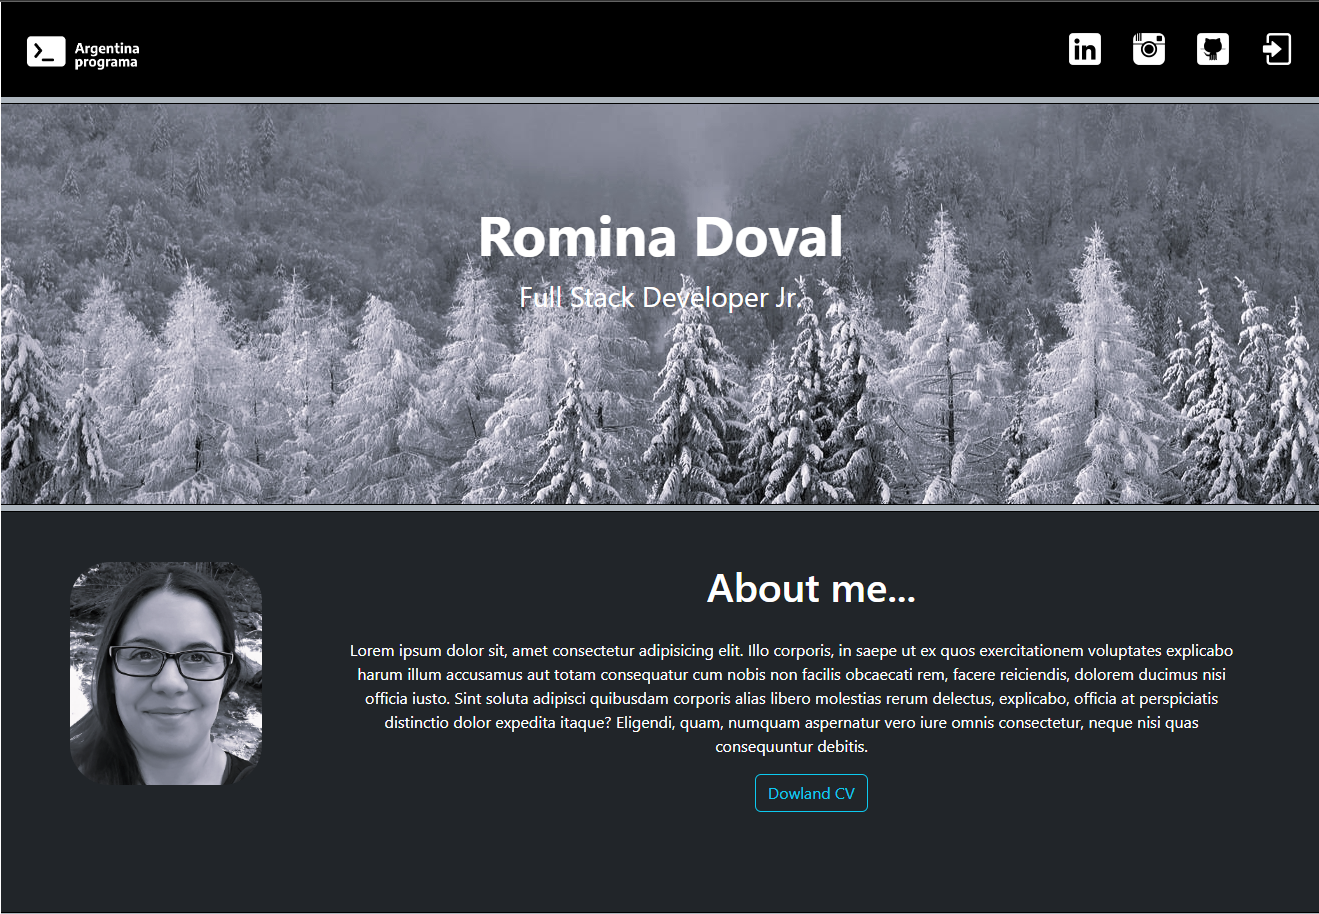
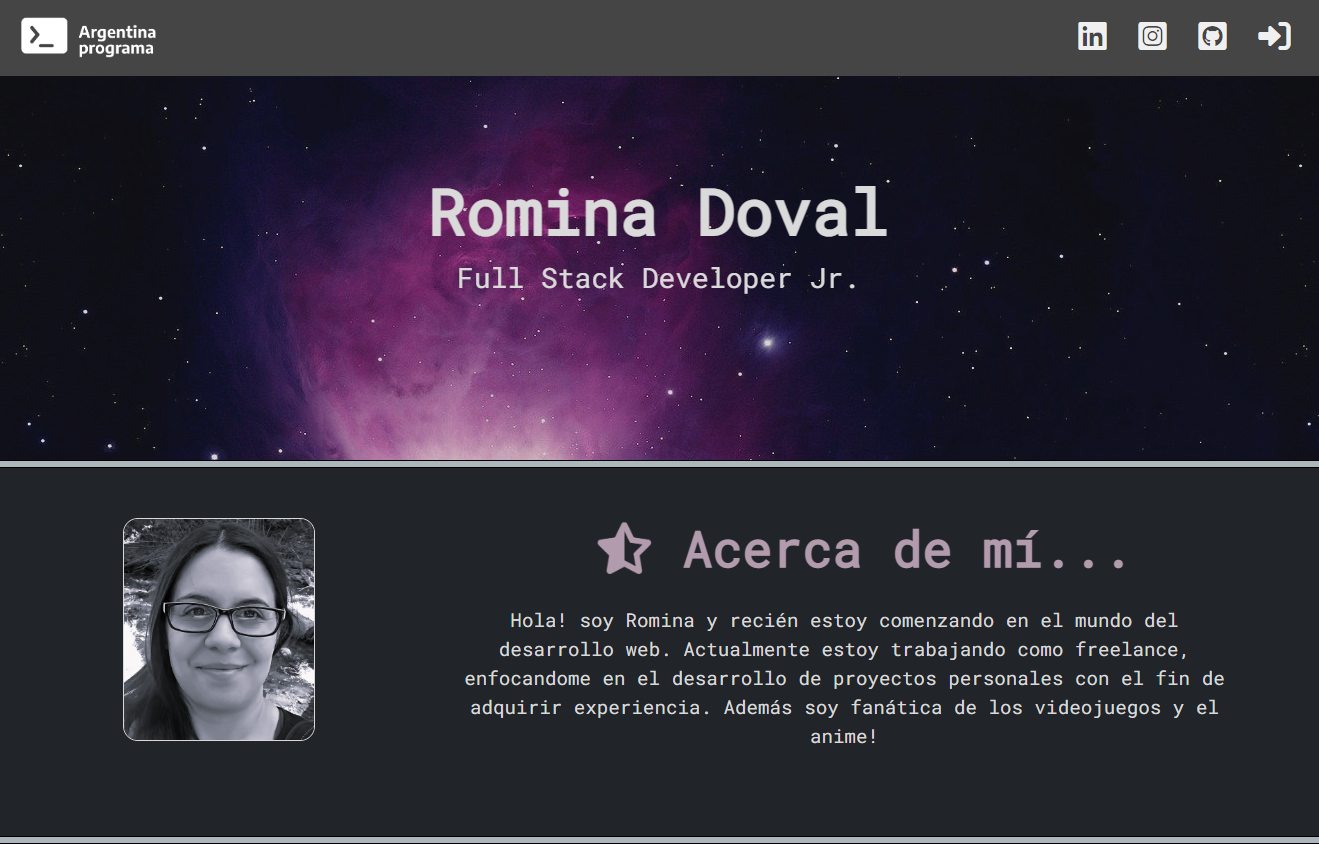
cambios, mejoras, falta proyectos

diff --git a/FrontEnd/src/app/components/skills/skills.component.html b/FrontEnd/src/app/components/skills/skills.component.html
@@ -15,8 +15,8 @@
                 <span class="fs-5"><img src="../../../assets/HTML20.png"> HTML</span>
             </div>
             <div class="progress mb-3" style="height: 1.5rem;">
-                <div class="progress-bar rojo" role="progressbar" style="width: 50%;" aria-valuemin="0"
-                    aria-valuenow="50" aria-valuemax="100">Intermedio</div>
+                <div class="progress-bar rojo" role="progressbar" style="width: 70%;" aria-valuemin="0"
+                    aria-valuenow="70" aria-valuemax="100">Intermedio</div>
             </div>
         </div>
 
@@ -26,7 +26,7 @@
                 <span class="fs-5"><img src="../../../assets/CSS20.png"> CSS</span>
             </div>
             <div class="progress mb-3" style="height: 1.5rem;">
-                <div class="progress-bar azul" role="progressbar" style="width: 50%;" aria-valuemin="0" aria-valuenow="50"
+                <div class="progress-bar azul" role="progressbar" style="width: 70%;" aria-valuemin="0" aria-valuenow="70"
                     aria-valuemax="100">Intermedio</div>
             </div>
         </div>
@@ -95,8 +95,8 @@
                 <span class="fs-5">Colaboración y Trabajo en Equipo</span>
             </div>
             <div class="progress mb-3" style="height: 1.5rem;">
-                <div class="progress-bar rojo" role="progressbar" style="width: 100%;" aria-valuemin="0"
-                    aria-valuenow="30" aria-valuemax="100"></div>
+                <div class="progress-bar lila" role="progressbar" style="width: 80%;" aria-valuemin="0"
+                    aria-valuenow="80" aria-valuemax="100">80%</div>
             </div>
         </div>
 
@@ -105,8 +105,8 @@
                 <span class="fs-5">Autodidacta</span>
             </div>
             <div class="progress mb-3" style="height: 1.5rem;">
-                <div class="progress-bar azul" role="progressbar" style="width: 100%;" aria-valuemin="0"
-                    aria-valuenow="100" aria-valuemax="100"></div>
+                <div class="progress-bar lila" role="progressbar" style="width: 100%;" aria-valuemin="0"
+                    aria-valuenow="100" aria-valuemax="100">100%</div>
             </div>
         </div>
 
@@ -115,8 +115,8 @@
                 <span class="fs-5">Comunicación</span>
             </div>
             <div class="progress mb-3" style="height: 1.5rem;">
-                <div class="progress-bar amarillo" role="progressbar" style="width: 100%;" aria-valuemin="0"
-                    aria-valuenow="100" aria-valuemax="100"></div>
+                <div class="progress-bar lila" role="progressbar" style="width: 80%;" aria-valuemin="0"
+                    aria-valuenow="80" aria-valuemax="100">80%</div>
             </div>
         </div>
         

diff --git a/FrontEnd/src/app/components/proyectos/proyectos.component.html b/FrontEnd/src/app/components/proyectos/proyectos.component.html
@@ -9,13 +9,13 @@
     <div id="carouselExampleControls" class="carousel slide col-md-5 col-sm-10" data-bs-ride="carousel">
         <div class="carousel-inner">
             <div class="carousel-item active">
-                <img src="../../../assets/carousel2.jpg" class="d-block w-100" alt="...">
+                <img src="../../../assets/Portfolio1.png" class="d-block w-100" alt="...">
             </div>
             <div class="carousel-item">
-                <img src="../../../assets/carousel2.jpg" class="d-block w-100" alt="...">
+                <img src="../../../assets/Portfolio2.png" class="d-block w-100" alt="...">
             </div>
             <div class="carousel-item">
-                <img src="../../../assets/carousel2.jpg" class="d-block w-100" alt="...">
+                <img src="../../../assets/portfolio3.png" class="d-block w-100" alt="...">
             </div>
         </div>
         <button class="carousel-control-prev" type="button" data-bs-target="#carouselExampleControls"
@@ -38,18 +38,18 @@
 
 
 
-    <!-- -------------------------------- BLOG --------------------------------- -->
-    
-    <div id="carouselExampleControls" class="carousel slide col-md-5 col-sm-10" data-bs-ride="carousel">
+    <!-- -------------------------------- SHIBA -------------------------------- -->
+
+    <div id="demo" class="carousel slide col-md-5 col-sm-10" data-bs-ride="carousel">
         <div class="carousel-inner">
             <div class="carousel-item active">
-                <img src="../../../assets/carousel3.jpg" class="d-block w-100" alt="...">
+                <img src="../../../assets/shiba1.png" class="d-block w-100" alt="...">
             </div>
             <div class="carousel-item">
-                <img src="../../../assets/carousel3.jpg" class="d-block w-100" alt="...">
+                <img src="../../../assets/shiba2.png" class="d-block w-100" alt="...">
             </div>
             <div class="carousel-item">
-                <img src="../../../assets/carousel3.jpg" class="d-block w-100" alt="...">
+                <img src="../../../assets/shiba3.png" class="d-block w-100" alt="...">
             </div>
         </div>
         <button class="carousel-control-prev" type="button" data-bs-target="#carouselExampleControls"
@@ -64,9 +64,9 @@
         </button>
 
         <div class="proyectoTexto">
-            <h5 class="card-title">BLOG</h5>
-            <p class="card-text">Próximamente</p>
-            <a href="#" class="btn btn-outline-light">Link</a>
+            <h5 class="card-title">SHIBA</h5>
+            <p class="card-text">TP - Codo a Codo</p>
+            <a href="https://ankyara.github.io/TP-Python/" target="_blank" class="btn btn-outline-light">Link</a>
         </div>
     </div>
 

diff --git a/FrontEnd/src/app/components/footer-nav/footer-nav.component.html b/FrontEnd/src/app/components/footer-nav/footer-nav.component.html
@@ -1,15 +1,13 @@
 <div class="footerNav">
   <ul class="nav justify-content-center">
     <li class="nav-item">
-      <a class="nav-link" target="_blank" href="www.linkedin.com/in/romina-doval"><img
-          src="../../../assets/linkedinBlue.png" /></a>
+      <a class="nav-link" target="_blank" href="www.linkedin.com/in/romina-doval"><i class="fa-brands fa-linkedin fa-3x"></i></a>
     </li>
     <li class="nav-item">
-      <a class="nav-link" target="_blank" href="https://www.instagram.com/romy.doval/"><img
-          src="../../../assets/instagramBlue.png" /></a>
+      <a class="nav-link" target="_blank" href="https://www.instagram.com/romy.doval/"><i class="fa-brands fa-square-instagram fa-3x"></i></a>
     </li>
     <li class="nav-item">
-      <a class="nav-link" target="_blank" href="https://github.com/Ankyara"><img src="../../../assets/githubBlue.png" /></a>
+      <a class="nav-link" target="_blank" href="https://github.com/Ankyara"><i class="fa-brands fa-square-github fa-3x"></i></a>
     </li>
   </ul>
 </div>

diff --git a/FrontEnd/src/app/components/skills/skills.component.css b/FrontEnd/src/app/components/skills/skills.component.css
@@ -5,7 +5,9 @@
   }
 
   h3 {
-    color: #white;
+    color: white;
+    text-shadow: 0px 0px 4px #B39BAE;
+    
   }
 
   .skills1, .skills2 {
@@ -16,10 +18,14 @@
     background-image: url(../../../assets/nebulosaTittle.jpg);
     opacity: 0.8;
     background-color: #212529;
-    color: white;
+    color: #d9d9d9;
     padding: 2rem 0 1rem 0;
     text-align: center;
     height: 6rem;
+  }
+
+  .sectionTitle h2{
+    font-weight: bold;
   }
 
   .sectionTitle h2:hover{
@@ -41,6 +47,11 @@
 
   .azul {
     background-color: #5499C7;
+  }
+
+  .lila {
+    background-color: #b39bae;
+    color: #d9d9d9;
   }
 
   

diff --git a/FrontEnd/src/app/components/education2/education2.component.html b/FrontEnd/src/app/components/education2/education2.component.html
@@ -3,7 +3,7 @@
         <img src="../../../assets/BOOTCursos.png" class="card-img-top" alt="..." />
         <div class="card-body">
             <h6 class="card-text">Bootstrap 5: Curso completo, práctico y desde 0</h6>
-            <a class="btn btn-outline-primary" href="https://www.udemy.com/share/101syY/" target="_blank"
+            <a class="btn" href="https://www.udemy.com/share/101syY/" target="_blank"
                 role="button">Udemy</a>
         </div>
     </div>

diff --git a/FrontEnd/src/app/components/education2/education2.component.css b/FrontEnd/src/app/components/education2/education2.component.css
@@ -13,8 +13,16 @@
 
 .btn {
     margin-top: 1rem;
+    color: #b39bae;
+    border-color: #b39bae;
   }
 
+  .btn:hover{
+    color: #454545;
+    font-weight: bold;
+    border-color: #454545 ;
+    background-color: #b39bae;
+  }
 
 
 img {
@@ -24,7 +32,11 @@ img {
     align-self: center;
 }
 
+.card{
+    box-shadow: 0px 0px 26px 0px rgba(240,240,240,1);
+}
+
 .card:hover{
-	box-shadow: 5px 5px 20px rgba(0,0,0,0.3);
+	
 	transform: translateY(-3%);
 }

diff --git a/FrontEnd/src/app/components/education/education.component.css b/FrontEnd/src/app/components/education/education.component.css
@@ -1,11 +1,16 @@
 .sectionTitle {
     background-image: url(../../../assets/nebulosaTittle.jpg);
     opacity: 0.8;
-    color: white;
+    color: #d9d9d9;
     padding: 2rem 0 1rem 0;
     text-align: center;
     height: 6rem;
   }
+
+  .sectionTitle h2{
+    font-weight: bold;
+  }
+
   .sectionTitle h2:hover{
     scale: 1.2;
     text-shadow: #474747 3px 5px 2px;

diff --git a/FrontEnd/src/app/components/footer-nav/footer-nav.component.css b/FrontEnd/src/app/components/footer-nav/footer-nav.component.css
@@ -2,3 +2,14 @@
     width: 30;
     padding-bottom: 0.5rem;
 }
+
+.fa-brands{
+    color: #b39bae;
+}
+
+.fa-brands:hover{
+    color:#d9d9d9;
+    scale: 1.2;
+
+}
+

diff --git a/FrontEnd/src/app/app.component.html b/FrontEnd/src/app/app.component.html
@@ -13,8 +13,6 @@
     <app-proyectos></app-proyectos>
     <app-divider></app-divider>
     <app-footer></app-footer>
-    <app-login></app-login>
-   
 </div> 
 
 
